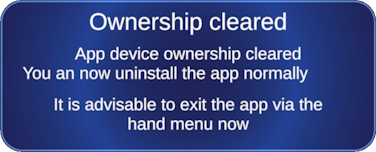
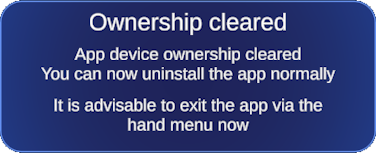
Update MTL2

diff --git a/_pages/holoatcmtl2.md b/_pages/holoatcmtl2.md
@@ -7,12 +7,12 @@ The [MetaLense 2](https://www.pncsolution.co.kr/eng/metalense/) is a Mixed Reali
 
 ![](mtl2.png)
 
-You can download HoloATC for P&C MetaLense 2 [directly via this link](https://www.schaikweb.net/HoloATC/MTL2/HoloATC_MetaLense2_1.1.5.0.apk?v=1.1.5.0)
+You can download HoloATC for P&C MetaLense 2 [directly via this link](https://www.schaikweb.net/HoloATC/MTL2/HoloATC_MetaLense2_1.1.5.1.apk?v=1.1.5.1)
 
 You can install it by connecting the MetaLense 2 to your PC, then install it by using the following command
 
 ```dos
-adb install HoloATC_MetaLense2_1.1.5.0.apk
+adb install HoloATC_MetaLense2_1.1.5.1.apk
 ```
 
 To be able to run adb commands, you will need to download the [Android SDK Platform Tools](https://developer.android.com/tools/releases/platform-tools) 
@@ -23,7 +23,7 @@ Since P&C Solution does not offer a store, this app looks for update on my site 
 adb shell dpm set-device-owner com.metalense.LocalJoost.HoloATC/com.localjoost.services.AdminReceiver
 ```
 
-There is an important caveat there can only be one app device owner, and after running this command you cannot unmake it device owner, nor uninstall it using the MetaLense 2 or an adb command. When the app is device owner, you will get an extra button "Clear device ownership" in the hand menu.
+There is an important caveat: there can only be one app device owner, and after running this command you cannot unmake it device owner, nor uninstall it using the MetaLense 2 or an adb command. When the app is device owner, you will get an extra button "Clear device ownership" in the hand menu.
 
 ![](cleardevownership.png)  
 
